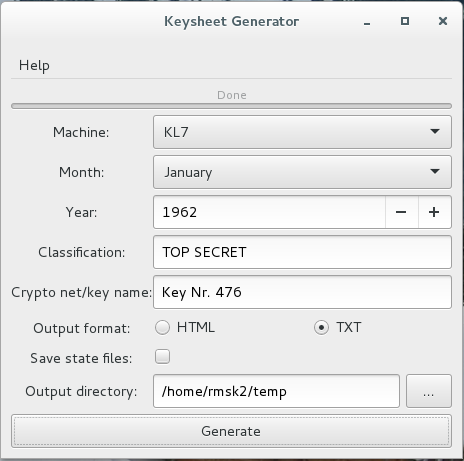
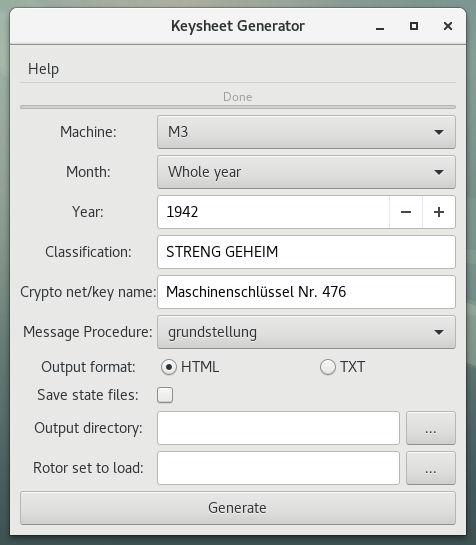
Integrated custom rotor sets into the command line and GUI keysheet generators.

Changed region(s): [[0.0, 0.0, 1.0, 1.0], [0.0905, 0.4252, 0.2716, 0.4859], [0.1207, 0.3644, 0.2414, 0.3948]]

diff --git a/pyrmsk2/keysheetgen.py b/pyrmsk2/keysheetgen.py
@@ -1,5 +1,5 @@
 ################################################################################
-# Copyright 2017 Martin Grap
+# Copyright 2018 Martin Grap
 # 
 # Licensed under the Apache License, Version 2.0 (the "License");
 # you may not use this file except in compliance with the License.
@@ -31,7 +31,7 @@ import pyrmsk2.rotorrandom as rotorrandom
 
 
 MACHINE_NAMES = ['M3', 'Services', 'M3D', 'ServicesD', 'ServicesUhr', 'M4', 'Railway', 'Abwehr', 'KD', \
-                 'Tirpitz', 'Typex', 'TypexY269', 'TypexPlugsY269', 'NemaWar', 'NemaTraining', 'CSP889', 'CSP2900', 'KL7', 'SG39']
+                 'Tirpitz', 'Typex', 'TypexY269', 'TypexPlugsY2695', 'NemaWar', 'NemaTraining', 'CSP889', 'CSP2900', 'KL7', 'SG39']
                  
 ## \brief List that contains the allowed keywords for specifying the message procedure
 PROC_TYPES = ['grundstellung', 'post1940', 'pre1940', 'sigaba']                 
@@ -1180,10 +1180,13 @@ class RenderController:
     #
     #  \param [msg_proc] Is a string. It specifies the message procedure in use with the sheet.    
     #
+    #  \param [rotor_set_file] Is a string. It specifies the name of the rotor set file to load before generating
+    #         the sheets. Has to be '' if no sheet ist to be loaded.
+    #
     #  \param [formatter] Is a callable object which allows to generate the file name of state files. Signature
     #         has to be formatter(dir_name, net_name, year, month, day). The formatter has to return a string.
     #    
-    def __init__(self, serv, machine_type, net_name, classification, msg_proc, formatter):
+    def __init__(self, serv, machine_type, net_name, classification, msg_proc, rotor_set_file, formatter):
         self._server = serv
         self._machine_type = machine_type
         self._net_name = net_name
@@ -1191,6 +1194,7 @@ class RenderController:
         self._renderer = TextKeysheetRenderer()
         self._formatter = formatter
         self._msg_proc = msg_proc
+        self._rotor_set_file_name = rotor_set_file
 
     ## \brief This property returns the renderer object which is used to generate the key sheet.
     #
@@ -1227,6 +1231,9 @@ class RenderController:
 
         if state_and_param['state'] != None:
             try:
+                # Load custom rotor set before generating sheets
+                self.modify_rotor_set(state_and_param['state'], state_and_param['rotorsetname'], self._rotor_set_file_name)
+                
                 self._renderer.render_start(out_file)                
                 
                 # Fill main sheet
@@ -1255,6 +1262,31 @@ class RenderController:
             raise KeysheetException('Unknown machine name: {}'.format(self._machine_type))
     
 
+    ## \brief This method loads a custom rotor set if this was requested by the user.
+    #
+    #  \param [machine_state] Is a byte array. It has to contain a machine state usable by RotorMachine.set_state()
+    #
+    #  \param [rotor_set_name] Is a string. It has to contain the name of the rotor set to modify. This value has to
+    #         appear in the list of rotor set names returned by the RotorMachine.get_rotor_set_names() method for
+    #         the machine reconstructed from the state given in parameter machine_state.
+    #
+    #  \param [rotor_set_file_name] Is a string. Has to contain the name of the file that contains the rotor set
+    #         data to load. If this parameter equals '' this method does nothing.
+    #
+    #  \returns Nothing
+    #                        
+    def modify_rotor_set(self, machine_state, rotor_set_name, rotor_set_file_name):
+        try:
+            if rotor_set_file_name != '':
+                with open(rotor_set_file_name, 'rb') as f:
+                    rotor_set_data = f.read()
+                    f.close()            
+                
+                with rotorsim.RotorMachine.from_machine_spec(machine_state, self._server.address) as machine:
+                    machine.set_rotor_set_state(rotor_set_name, rotor_set_data)
+        except:
+            raise KeysheetException('Unable to load rotor set {}'.format(rotor_set_file_name))
+
     ## \brief This method uses the machine name and other parameters specified on the command line to generate
     #         an appropriately configured Keysheet object.
     #
@@ -1277,10 +1309,11 @@ class RenderController:
     #                    the given machine type.
     #           'randparam': Maps to a string object that serves as a randomizer parameter in Keysheet.fill().
     #           'isgerman': Maps to a boolean that is True if the language on the sheet is German.
-    #           'sheets': Maps to a vector of Keysheet objects. The first object is the "main sheet". 
+    #           'sheets': Maps to a vector of Keysheet objects. The first object is the "main sheet".
+    #           'rotorsetname': Specifies the name of the rotor set that is to be used as a string. 
     #                        
     def configure_key_sheet(self, tlv_server, machine_name, year, month, net_name, classification, msg_proc_type = ''):
-        result = {'state':None, 'randparm':'', 'isgerman':True, 'sheets':[]}
+        result = {'state':None, 'randparm':'', 'isgerman':True, 'sheets':[], 'rotorsetname':'defaultset'}
         keysheet = Keysheet(tlv_server, self._formatter)
         
         keysheet.year = year
@@ -1397,7 +1430,7 @@ class RenderController:
             result['state'] = rotorsim.UnsteckeredEnigmaState.get_default_config(machine_name + 'Enigma')
             result['randparm'] = 'egal'
             
-        elif (machine_name == 'Typex') or (machine_name == 'TypexY269')  or (machine_name == 'TypexPlugsY269'): # Typex
+        elif (machine_name == 'Typex') or (machine_name == 'TypexY269')  or (machine_name == 'TypexPlugsY2695'): # Typex
             # Set up column mapping            
             keysheet.column_mapping = {'Wheel settings':PlugsColumn(14, 'rotors'), 'Rings':Column(5, 'rings'), \
                                        'Reflector':Column(26, 'reflector'), 'Plugboard':Column(26, 'plugs'), \
@@ -1410,7 +1443,7 @@ class RenderController:
             # Columns to include
             keysheet.columns = ['Wheel settings', 'Rings', 'Reflector']
             
-            if machine_name == 'TypexPlugsY269':
+            if machine_name == 'TypexPlugsY2695':
                 keysheet.columns.append('Plugboard')
                 keysheet.column_mapping['Plugboard'].uppercase = False
             
@@ -1428,10 +1461,12 @@ class RenderController:
             
             if machine_name == 'Typex':            
                 result['randparm'] = 'sp02390'
-            else:
-                if machine_name == 'TypexPlugsY269':
-                    result['randparm'] = 'plugsy269'
+            else:                
+                if machine_name == 'TypexPlugsY2695':
+                    result['rotorsetname'] = 'Y2695'
+                    result['randparm'] = 'plugsy2695'
                 else:
+                    result['rotorsetname'] = 'Y269'
                     result['randparm'] = 'y269'
                                
         elif (machine_name == 'NemaWar') or ((machine_name == 'NemaTraining')): # Nema war and training models
@@ -1650,10 +1685,10 @@ class KeysheetGeneratorMain:
             if machine_name not in MACHINE_NAMES:
                 raise KeysheetException("Cannot use " + machine_name + " with " + msg_proc_type + " message procedure")
         elif msg_proc_type == 'post1940':
-            if machine_name not in ['M3', 'Services', 'M3D', 'ServicesD', 'ServicesUhr', 'M4', 'Railway', 'Abwehr', 'KD', 'Tirpitz', 'Typex', 'TypexY269', 'TypexPlugsY269']:
+            if machine_name not in ['M3', 'Services', 'M3D', 'ServicesD', 'ServicesUhr', 'M4', 'Railway', 'Abwehr', 'KD', 'Tirpitz', 'Typex', 'TypexY269', 'TypexPlugsY2695']:
                 raise KeysheetException("Cannot use " + machine_name + " with " + msg_proc_type + " message procedure")       
         elif msg_proc_type == 'pre1940':
-            if machine_name not in ['M3', 'Services', 'M3D', 'ServicesD', 'ServicesUhr', 'M4', 'Railway', 'Abwehr', 'KD', 'Tirpitz', 'Typex', 'TypexY269', 'TypexPlugsY269']:
+            if machine_name not in ['M3', 'Services', 'M3D', 'ServicesD', 'ServicesUhr', 'M4', 'Railway', 'Abwehr', 'KD', 'Tirpitz', 'Typex', 'TypexY269', 'TypexPlugsY2695']:
                 raise KeysheetException("Cannot use " + machine_name + " with " + msg_proc_type + " message procedure")       
         elif msg_proc_type == 'sigaba':
             if machine_name not in ['CSP889', 'CSP2900']:
@@ -1674,6 +1709,7 @@ class KeysheetGeneratorMain:
     #         html           A boolean. True if HTML output is to be generated.
     #         tlv_server     A string. Full path of the tlv_server binary.
     #         msg_proc_type  A string. Specifies the message procedure for which this sheet is intended. 
+    #         load_set       A string. Specifies the name of the rotor set to load. Use '' to not load a rotor set.
     #
     #  \param [reporter] An object with the same interface as ReporterBase.
     #
@@ -1704,7 +1740,7 @@ class KeysheetGeneratorMain:
                                                 
             with rotorsim.tlvobject.TlvServer(binary = args.tlv_server) as serv:
                 
-                ctrl = RenderController(serv, args.type, args.net, args.classification, args.msg_proc_type, KeysheetGeneratorMain.format_state_name)
+                ctrl = RenderController(serv, args.type, args.net, args.classification, args.msg_proc_type, args.load_set, KeysheetGeneratorMain.format_state_name)
                 ctrl.renderer = renderer
 
                 try:                                

diff --git a/keygen.py b/keygen.py
@@ -223,9 +223,12 @@ class SheetGenArgs:
     #        
     #  \param [net] Is a string. It has to contain the name of the key or crypto net which is to appear on the key sheet.
     #            
+    #  \param [rotor_set_file_name] Is a string. It has to contain the name of the file that contains a custom rotor set.
+    #         If this value is '' no custom rotor set is loaded.
+    #            
     #  \param [msg_proc_type] Is a string. It has to specify the type of the message procdure the keysheet is intended.
     #            
-    def __init__(self, machine, year, month, classification, net, msg_proc_type = ''):
+    def __init__(self, machine, year, month, classification, net, rotor_set_file_name, msg_proc_type):
         self.type = machine
         self.year = year
         self.month = month
@@ -236,6 +239,7 @@ class SheetGenArgs:
         self.html = False
         self.tlv_server = keysheetgen.rotorsim.tlvobject.get_tlv_server_path()
         self.msg_proc_type = msg_proc_type
+        self.load_set = rotor_set_file_name
 
 
 ## \brief A class that abstracts the background process that is started when key sheets for a whole year
@@ -361,8 +365,7 @@ class KeyGenWindow(Gtk.Window):
             
         self._proc_combo.set_active(0)
         
-        grid.attach(self._proc_combo, 1, 5, 1, 1)
-        
+        grid.attach(self._proc_combo, 1, 5, 1, 1)        
 
         # Output format row
         html_label = Gtk.Label('Output format:')
@@ -403,6 +406,27 @@ class KeyGenWindow(Gtk.Window):
         hbox.pack_start(self._file_button, False, True, 0)
         
         grid.attach(hbox, 1, 8, 1, 1)
+
+        # Rotor set to load row
+        load_set_label = Gtk.Label('Rotor set to load:')
+        grid.attach(load_set_label, 0, 9, 1, 1)
+        
+        hbox = Gtk.Box(orientation=Gtk.Orientation.HORIZONTAL, spacing=6)
+                                
+        self._load_set_entry = Gtk.Entry()
+        self._load_set_entry.set_text('')
+        self._load_set_entry.set_hexpand(True)                
+        hbox.pack_start(self._load_set_entry, True, True, 0)
+        
+        data_getter = lambda: self._load_set_entry.get_text()
+        data_setter = lambda x: self._load_set_entry.set_text(x)
+        load_set_callback = lambda x: self.select_input_file(x, data_getter, data_setter, "Select rotor set file")
+        
+        self._load_set_button = Gtk.Button("...")
+        self._load_set_button.connect("clicked", load_set_callback)
+        hbox.pack_start(self._load_set_button, False, True, 0)
+        
+        grid.attach(hbox, 1, 9, 1, 1)
         
         # Generate button        
         self._main_button = Gtk.Button("Generate")
@@ -470,9 +494,10 @@ class KeyGenWindow(Gtk.Window):
         dialog.run()       
         dialog.destroy()
 
-    ## \brief This method serves as a callback for the show file dialog ("...") button.
+    ## \brief This method serves as a callback for the "..." button next of the "Output directory" which is intended to
+    #         select an output directory for the keysheets and (optionally) state files.
     #
-    #  \param [widget] Is an object of type Gtk.Widget.
+    #  \param [widget] Is an object of type Gtk.Widget. This is a required part of a callback's signature.
     #
     #  \returns Nothing.
     #        
@@ -492,6 +517,37 @@ class KeyGenWindow(Gtk.Window):
 
         dialog.destroy()
 
+    ## \brief This method serves as a callback for for selecting an input file.
+    #
+    #  \param [widget] Is an object of type Gtk.Widget. This is a required part of a callback's signature.
+    #
+    #  \param [var_getter] Is a callable object that takes no argument and returns a string. It is used to retrieve the
+    #         the default value for file to select.
+    #
+    #  \param [var_setter] Is a callable object that takes a string and returns nothing. It is used to set a variable
+    #         to the file name selected by the user.    
+    #
+    #  \param [user_info_text] Is a string. Contains the information text displayed to the user in order to explain what type
+    #         of file is to be selected.
+    #    
+    #  \returns Nothing.
+    #        
+    def select_input_file(self, widget, var_getter, var_setter, user_info_text):
+        dialog = Gtk.FileChooserDialog(user_info_text, self, Gtk.FileChooserAction.OPEN, (Gtk.STOCK_CANCEL, Gtk.ResponseType.CANCEL, "Select", Gtk.ResponseType.OK))
+        dialog.set_create_folders(False)
+
+        # Set file_name initially displayed by the dialog
+        if var_getter() != '':
+            dialog.set_filename(var_getter())
+
+        response = dialog.run()
+        
+        # Use data if user clicked on OK 
+        if response == Gtk.ResponseType.OK:
+            var_setter(dialog.get_filename())
+
+        dialog.destroy()
+
     ## \brief This method serves as a callback for the "Generate" button.
     #
     #  \param [button] Is an object of type Gtk.Button.
@@ -502,7 +558,8 @@ class KeyGenWindow(Gtk.Window):
         if self._outdir_entry.get_text() != '':
             # Get sheet generation parameters from GUI  
             args = SheetGenArgs(keysheetgen.MACHINE_NAMES[self._machine_combo.get_active()], int(self._year_entry.get_value()), self._month_combo.get_active(),\
-                                self._classifciation_entry.get_text(), self._net_name_entry.get_text(), keysheetgen.PROC_TYPES[self._proc_combo.get_active()])
+                                self._classifciation_entry.get_text(), self._net_name_entry.get_text(), self._load_set_entry.get_text(), \
+                                keysheetgen.PROC_TYPES[self._proc_combo.get_active()])
             
             args.out = self._outdir_entry.get_text()
             args.html = self._html_button.get_active()

diff --git a/keygencli.py b/keygencli.py
@@ -1,5 +1,5 @@
 ################################################################################
-# Copyright 2017 Martin Grap
+# Copyright 2018 Martin Grap
 # 
 # Licensed under the Apache License, Version 2.0 (the "License");
 # you may not use this file except in compliance with the License.
@@ -41,6 +41,7 @@ def execute():
     parser.add_argument("--html", help="Generate HTML not text output", action='store_true')
     parser.add_argument("--tlv-server", help="Path to TLV server binary", default=rotorsim.tlvobject.get_tlv_server_path())
     parser.add_argument("-t", "--msg-proc-type", help="Type of message procedure", default='', choices=PROC_TYPES)
+    parser.add_argument("--load-set", help="File name of rotor set to load. Optional.", default='')
     
     # Calls sys.exit() when command line can not be parsed or when --help is requested
     args = parser.parse_args()        
